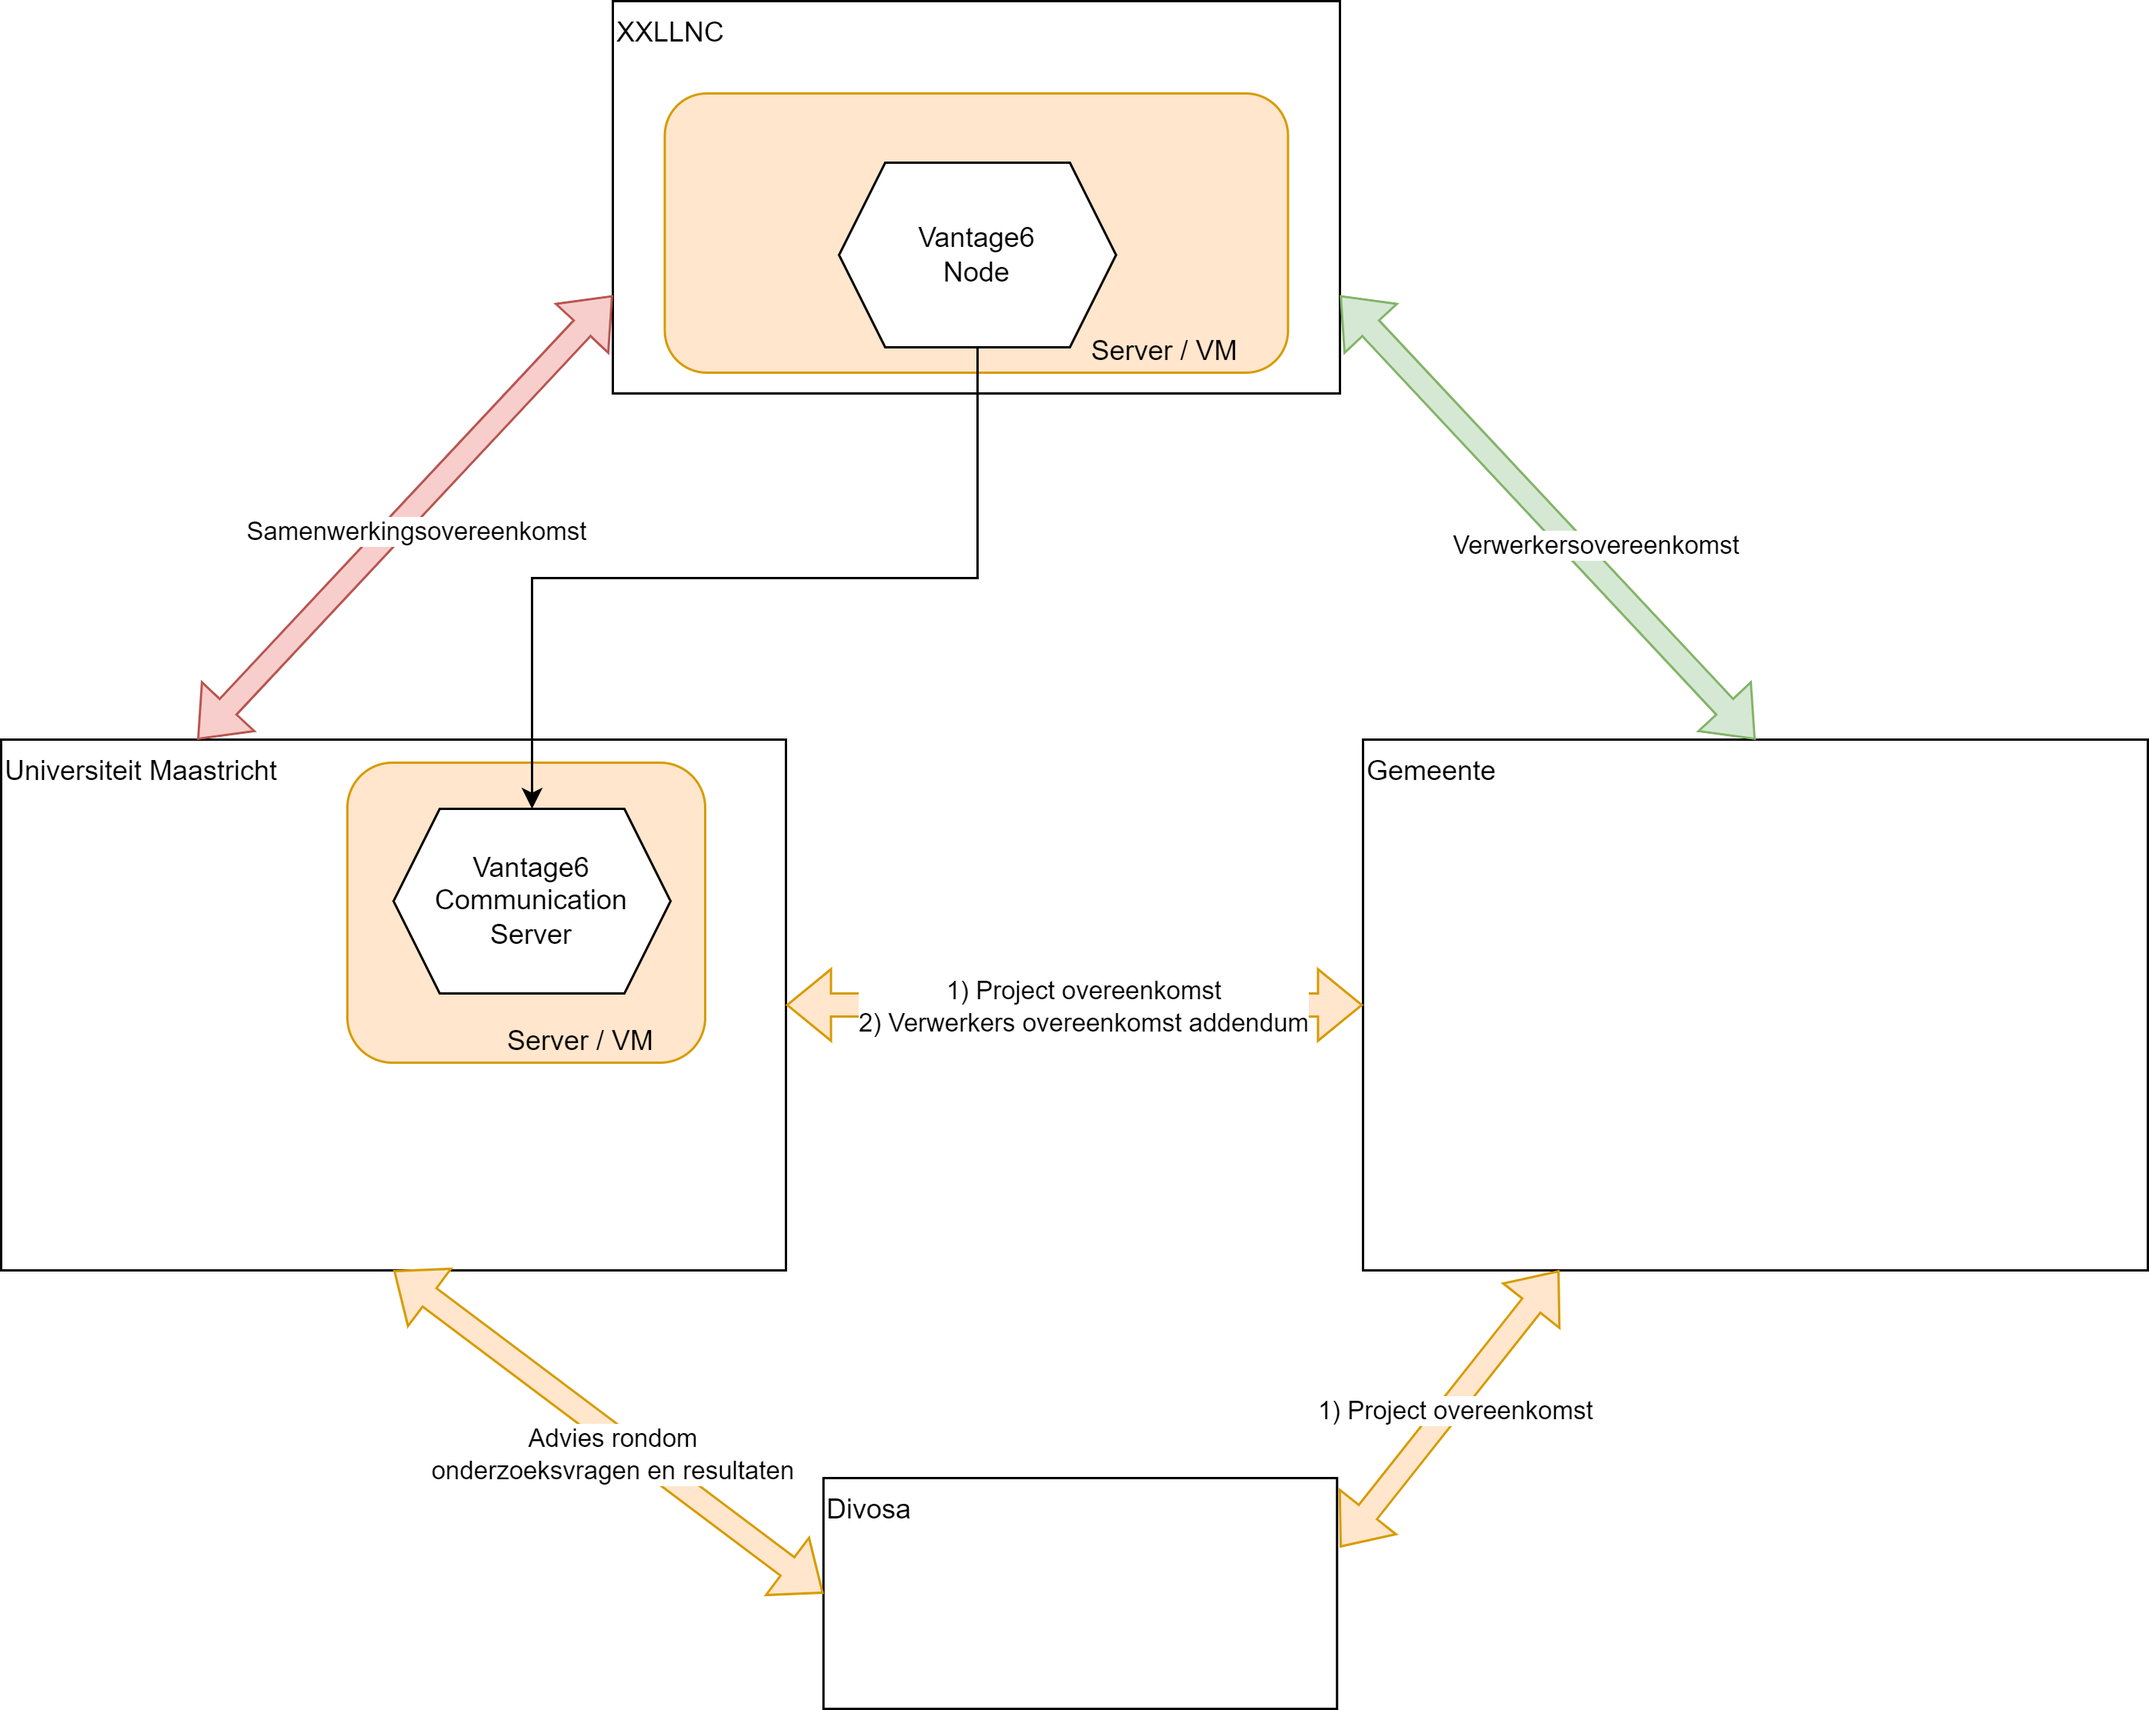
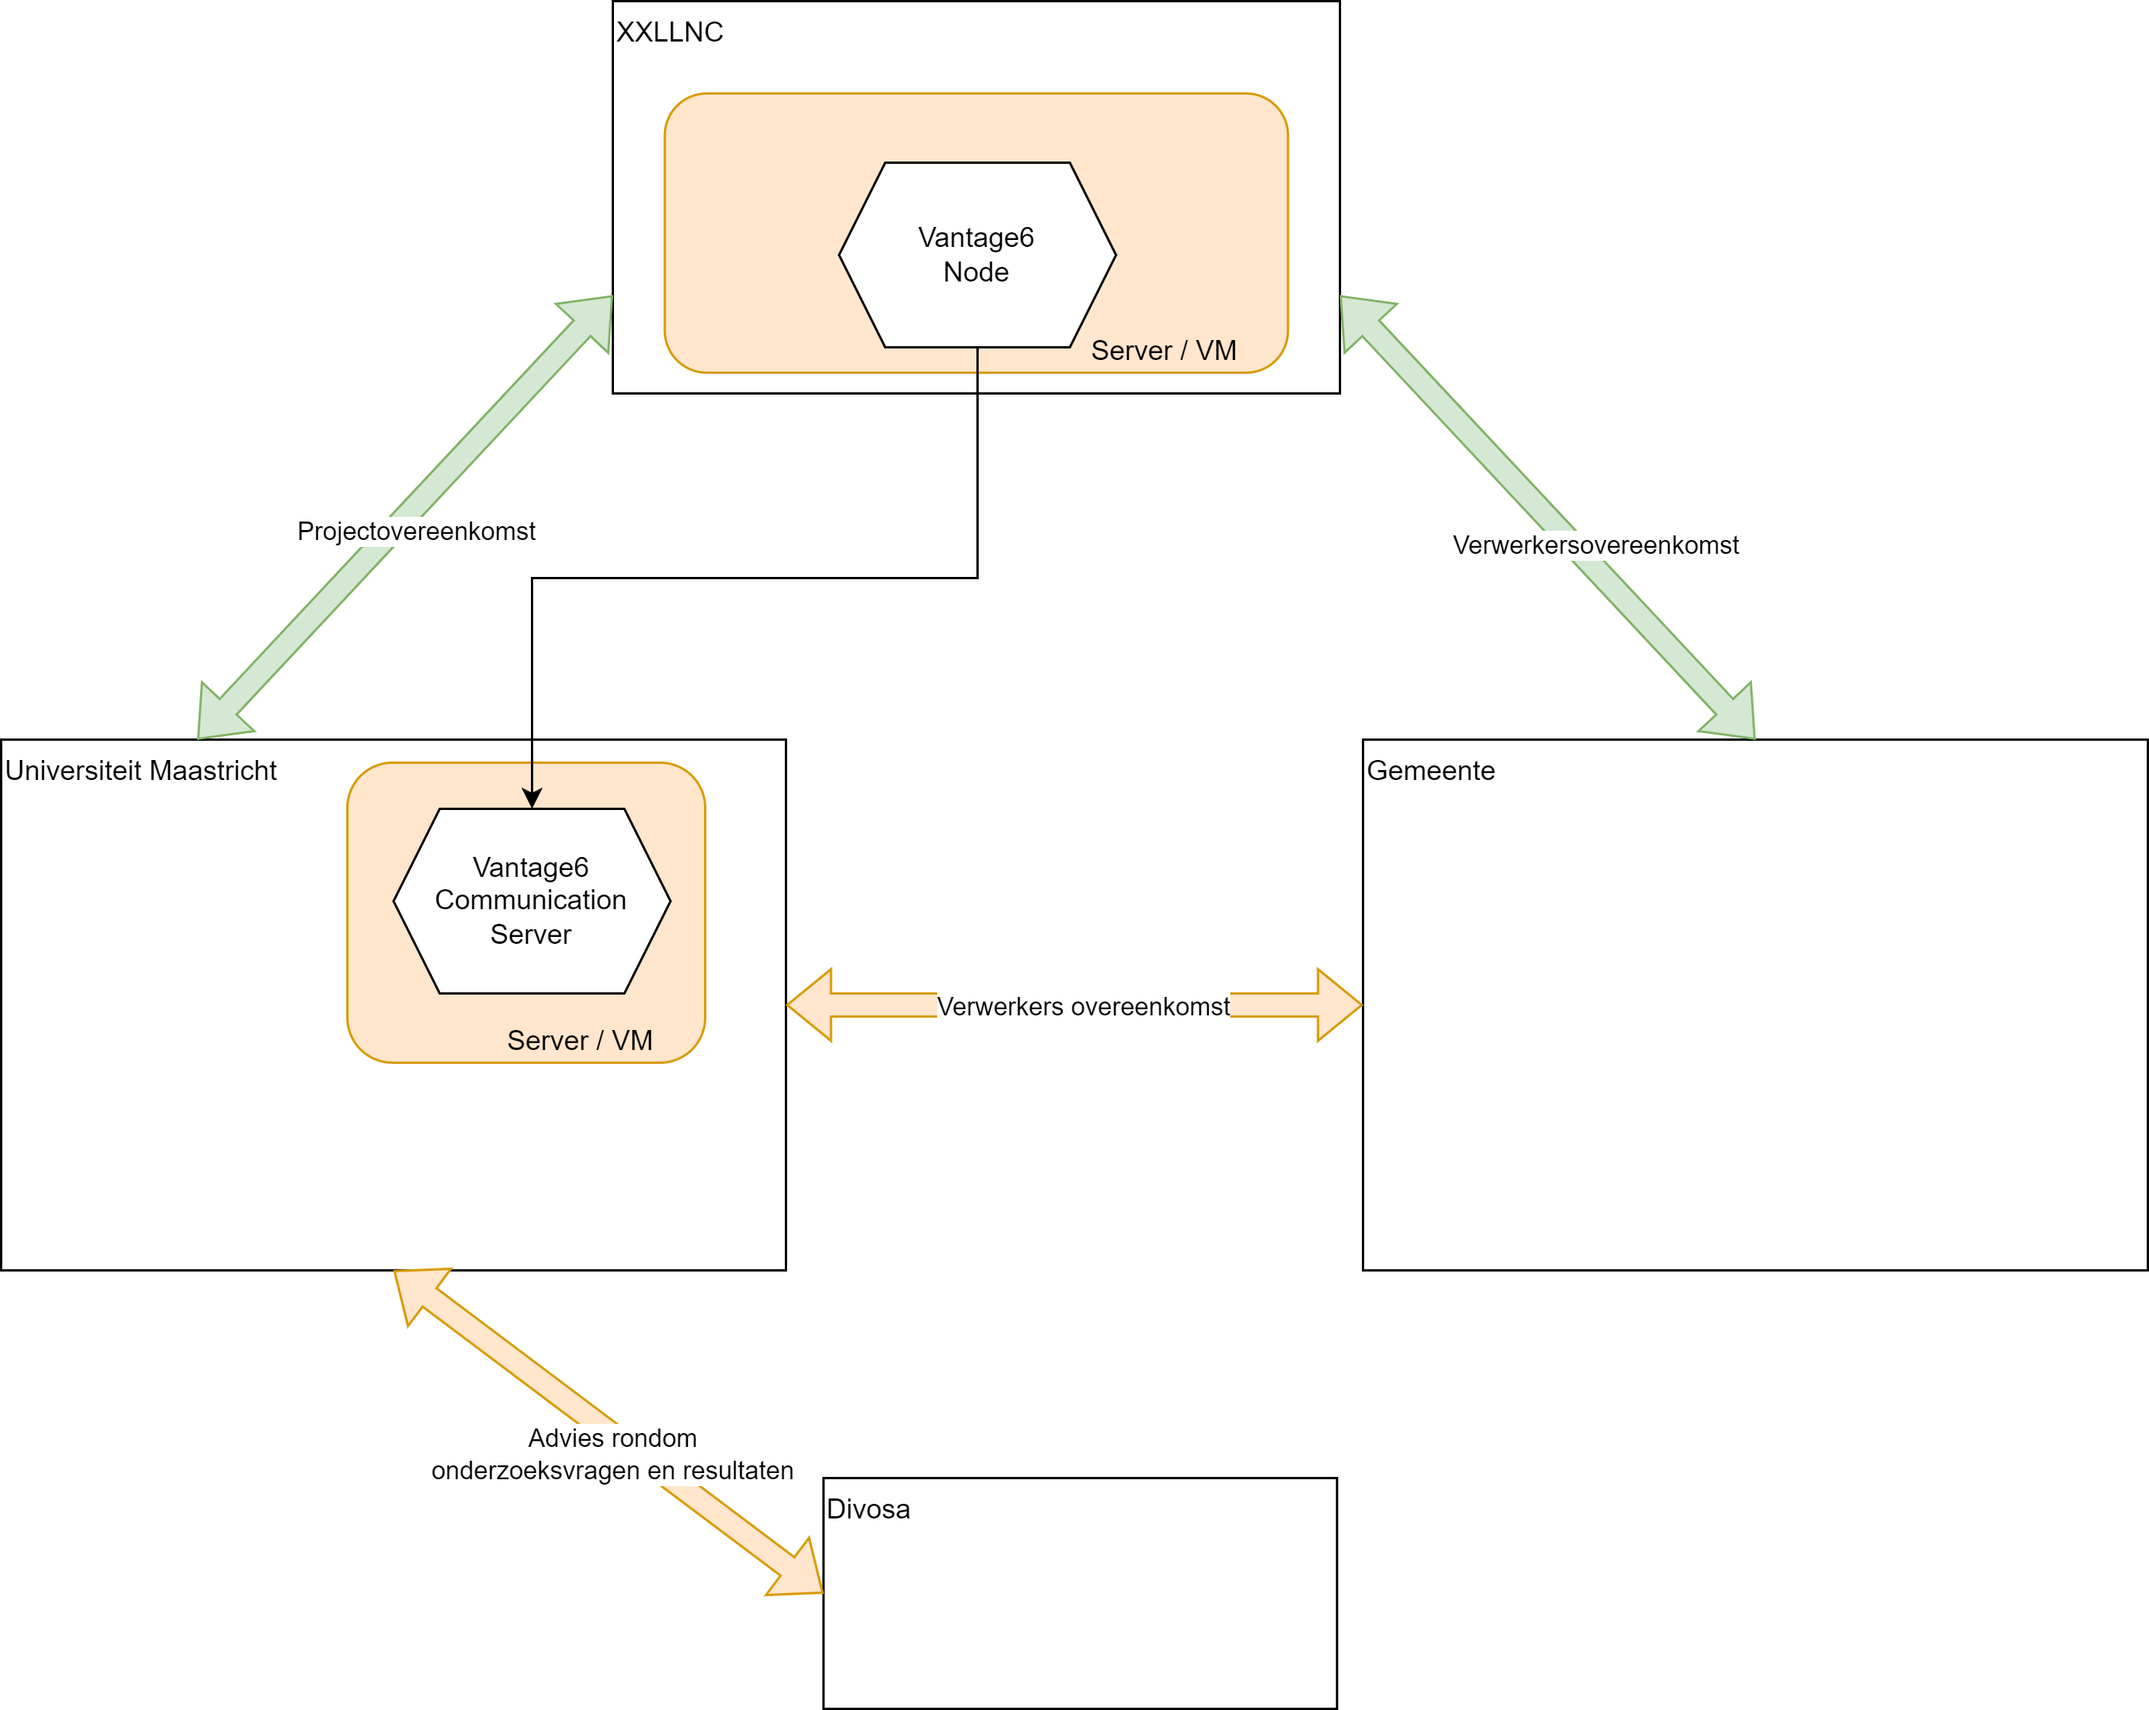
Updated description text

diff --git a/html/index.md b/html/index.md
@@ -2,34 +2,41 @@
 
 Gemeenten spelen een cruciale rol bij het vroegtijdig signaleren en aanpakken van schulden onder inwoners. Nieuwe technologieën, zoals Federated Learning, bieden innovatieve manieren om de effectiviteit van deze vroegsignalering te verbeteren zonder de privacy van burgers in gevaar te brengen. Wij nodigen uw gemeente uit om deel te nemen aan een project dat gebruikmaakt van deze technologie.
 
+## Wat willen we onderzoeken in dit project?
+
+Tijdens dit project willen we het lange-termijn effect van vroegsignalering onderzoeken. Bestaand onderzoek focussed zich op het aantal meldingen, dossiers en het accepteren van hulp. In dit onderzoek willen we inzichtelijk krijgen of het accepteren van hulp ook leidt tot minder signalen in de toekomst.
+
+De twee specifieke onderzoeksvragen waar we een antwoord op willen geven zijn:
+
+1. Wat is de effectiviteit (gemeten als geen of minder signalen in de toekomst) van de huidige vroegsignalering?
+2. Wat is de effectiviteit van specifieke contactmethoden (bijvoorbeeld het sturen van een brief, bellen, of huisbezoeken)?
+3. Wat is het verschil in effectiviteit tussen verschillende drempelwaarden (bijvoorbeeld de hoogte van het schuldbedrag, of het aantal meldingen) van specifieke contactmethoden?
+
+De informatie voor deze onderzoeksvragen bevindt zich bij uw software dienstverlener (bijvoorbeeld XXLLNC). Dit betekent dat we de uitvoering van het onderzoek in dit project met deze dienstverlener kunnen afhandelen, waarbij de deelnemende gemeenten extra inzicht krijgen in de vroegsignalering. Omdat deze dienstverlener in opdracht werkt van de gemeente, moeten we voor dit onderzoek een verwerkersovereenkomst sluiten met de deelnemende gemeenten.
+
+Onderstaand staan nog verdere technische en juridische details uitgelegd.
+
 ## Wat is Federated Learning?
 
 Federated Learning is een vorm van machine learning waarbij modellen worden getraind op gedistribueerde data, zonder dat deze data centraal wordt verzameld. In plaats van gegevens naar een centraal model te sturen, wordt het model naar de data gebracht. Dit betekent dat gevoelige informatie binnen de infrastructuur van de dienstverlener (bijvoorbeeld XXLLNC) blijft, terwijl toch geanonimiseerde inzichten kunnen worden gedeeld voor gezamenlijke analyses.
 
-## Voordelen voor uw gemeente
+### Voordelen voor uw gemeente
 
-Privacybescherming: Uw data blijft binnen de infrastructuur van de dienstverlener, waardoor de privacy van inwoners gewaarborgd blijft.
+- **Privacybescherming**: Uw data blijft binnen de infrastructuur van de dienstverlener, waardoor de privacy van inwoners gewaarborgd blijft.
+- **Inzichten in Vroegsignalering**: Door deelname ontvangt uw gemeente gratis inzichten in de effectiviteit van uw huidige vroegsignaleringsmethoden, wat kan leiden tot verbeterde ondersteuning voor inwoners met (beginnende) schulden.
+- **Innovatie en Samenwerking**: U maakt deel uit van een innovatief project dat samenwerking tussen gemeenten stimuleert en bijdraagt aan de ontwikkeling van geavanceerde analysemethoden.
 
-Inzichten in Vroegsignalering: Door deelname ontvangt uw gemeente gratis inzichten in de effectiviteit van uw huidige vroegsignaleringsmethoden, wat kan leiden tot verbeterde ondersteuning voor inwoners met (beginnende) schulden.
-
-Innovatie en Samenwerking: U maakt deel uit van een innovatief project dat samenwerking tussen gemeenten stimuleert en bijdraagt aan de ontwikkeling van geavanceerde analysemethoden.
-
-## Rol van de dienstverlener
+### Rol van de dienstverlener
 
 In dit project maakt uw gemeente gebruik van de diensten van een gespecialiseerde dienstverlener. Zij ontvangen de gegevens en zorgen voor de technische infrastructuur die nodig is voor de toepassing van Federated Learning. De data blijft binnen hun infrastructuur, wat bijdraagt aan de bescherming van de privacy van uw inwoners.
 
-## Benodigde overeenkomsten
+### Benodigde overeenkomst
 In onderstaand figuur is uitgelegd hoe de relatie tussen de dienstverlener (XXLLNC), de gemeente en Universiteit Maastricht (UM) is vormgegeven vanuit het oogpunt van benodigde overenkomsten.
 
 <img src="overeenkomsten_overzicht.png" width="100%"/>
 
-Op basis van dit figuur zijn dan ook de volgende overeenkomsten nodig tussen uw gemeente en Universiteit Maastricht:
-
-- Projectovereenkomst: Beschrijft de doelstellingen, scope en governance van het project, evenals de rechten en plichten van de betrokken partijen.
-- Data Verwerkers Addendum: Waarborgt dat de verwerking van persoonsgegevens in overeenstemming is met de Algemene Verordening Gegevensbescherming (AVG) en legt de afspraken vast tussen de verwerkingsverantwoordelijke (gemeente) en de verwerker (UM).
-
-Deze overeenkomsten zijn noodzakelijk om duidelijk te maken welke gemeenten deelnemen aan het project en om de samenwerking met de dienstverlener effectief te faciliteren.
+Op basis van dit figuur is dan ook een verwerkersovereenkomst nodig tussen de deelnemende gemeente en Universiteit Maastricht. Deze overeenkomst waarborgt dat de verwerking van persoonsgegevens in overeenstemming is met de Algemene Verordening Gegevensbescherming (AVG) en legt de afspraken vast tussen de verwerkingsverantwoordelijke (gemeente) en de verwerker (UM).
 
 ## Hoe deel te nemen?
 
-Geïnteresseerde gemeenten kunnen contact opnemen met de Universiteit Maastricht voor een kennismakingsgesprek en verdere details over het project. Tijdens dit gesprek kunnen de overeenkomsten nog verder worden toegelicht.
+Geïnteresseerde gemeenten kunnen contact opnemen met de Universiteit Maastricht via [dit formulier](https://wkf.ms/3MLxWOP) waarna er contact wordt opgenomen.
